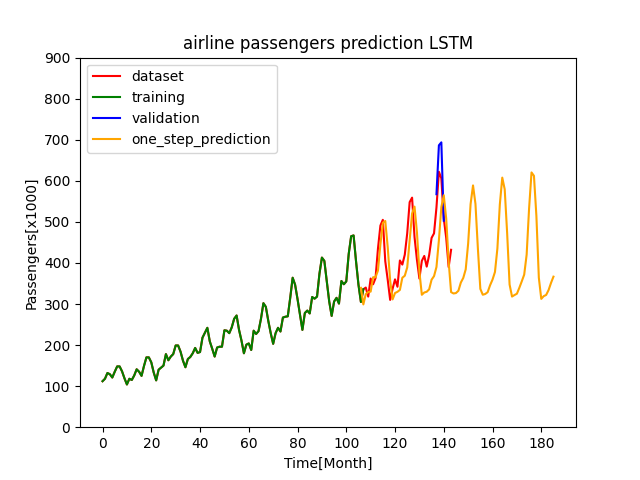
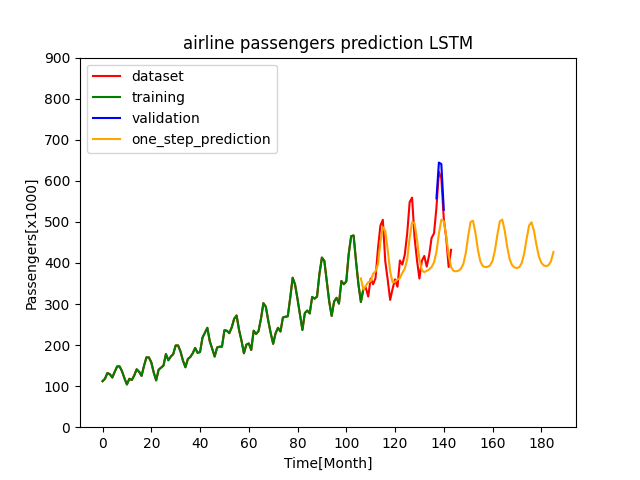
fix imports in airline_passengers_pytorch_lstm

Changed region(s): [[0.5625, 0.3438, 0.875, 0.625], [0.6562, 0.3125, 0.7188, 0.4062]]

diff --git a/TimeSeries/UnivariatTimeSeriesForecast/AirlinePassengers/Pytorch/LSTM/airline_passengers_pytorch_lstm.py b/TimeSeries/UnivariatTimeSeriesForecast/AirlinePassengers/Pytorch/LSTM/airline_passengers_pytorch_lstm.py
@@ -1,11 +1,15 @@
+import numpy as np
+import pandas as pd
 import torch
 import torch.nn as nn
 from torch.utils.data import DataLoader, TensorDataset
 import matplotlib.pyplot as plt
 from sklearn.preprocessing import MinMaxScaler
-from TimeSeriesPrediction.UnivariatTimeSeriesForecast.AirlinePassengers.airline_passengers_utilities import *
 
-EPOCHS = 600
+from TimeSeries.UnivariatTimeSeriesForecast.AirlinePassengers.airline_passengers_utilities import \
+    AirlinePassengersDataSet, TimeSeriesGenerator
+
+EPOCHS = 100
 LEARNING_RATE = 0.001
 BATCH_SIZE = 1
 LOOK_BACK = 30
@@ -119,6 +123,7 @@ def validation_forecast(model, inputs):
         prediction = model.forward(element[None, :, :])
         predictions.append(prediction.item())
     return predictions
+
 
 def one_step_ahead_forecast(model, current_value, number_of_predictions):
     one_step_ahead_forecast = list()
